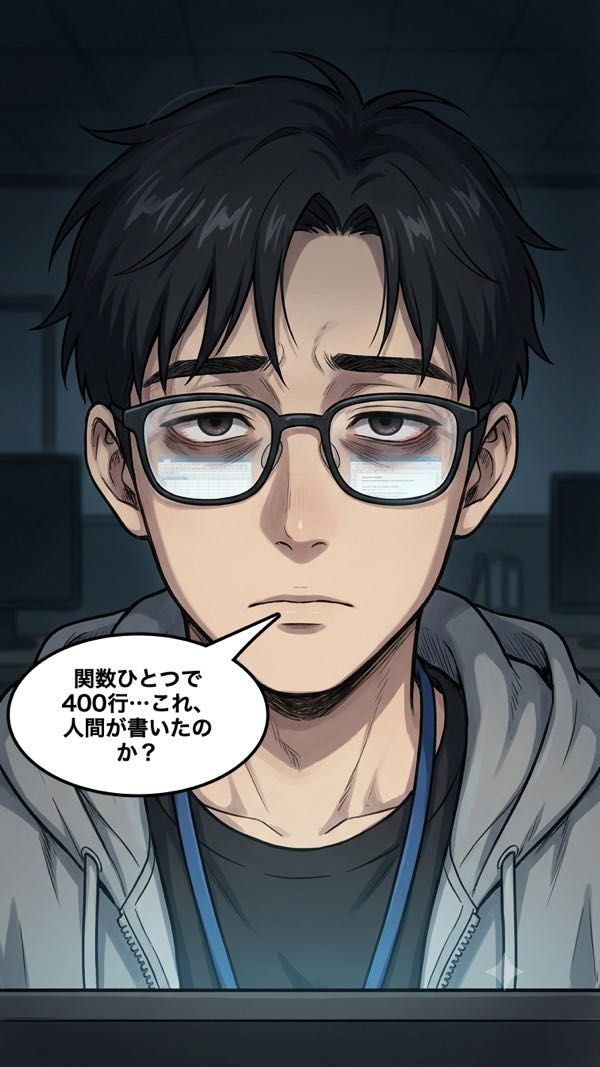
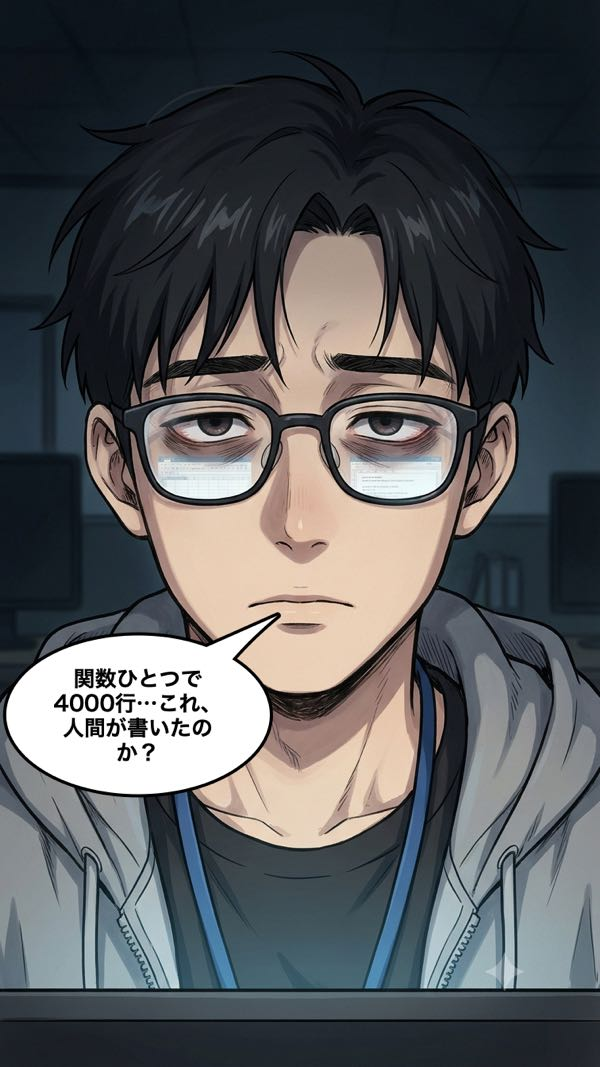
데모 만화: 4000줄, 전임자 떡밥 두 컷 추가

diff --git a/demo/ja/scroll.html b/demo/ja/scroll.html
@@ -1,4 +1,4 @@
 <!doctype html><html lang="ja"><meta charset="utf-8"><title>開発者異世界 第1話（デモ）</title><meta name="viewport" content="width=device-width,initial-scale=1"><meta name="robots" content="noindex">
 <style>body{margin:0;background:#0b0c10;color:#eee;font-family:-apple-system,system-ui,sans-serif}
 a{color:#8ab4ff}.wrap{max-width:756px;margin:0 auto}img{display:block;width:100%;height:auto}
-.top{padding:14px 16px;font-size:14px;line-height:1.5}.top b{font-size:16px}.langs{margin-bottom:8px}</style><body><div class="wrap"><div class="top"><nav class="langs"><b>日本語</b> · <a href="../en/scroll.html">English</a> · <a href="../de/scroll.html">Deutsch</a> · <a href="../ko/scroll.html">한국어</a></nav><b>開発者異世界 第1話（デモ）</b><br>Hearbook のWebマンガ翻訳を試すためのデモです。お話はHearbookが作り、絵はAIで作成しました。<br><a href="paged.html">ページめくりのデモ（宇宙ねこパトロール）</a></div><img src="isekai/cut01.jpg?v=4" width="600" height="1067" alt="開発者異世界 第1話（デモ） 1"><img src="isekai/cut02.jpg?v=4" width="600" height="1067" alt="開発者異世界 第1話（デモ） 2"><img src="isekai/cut03.jpg?v=4" width="600" height="1067" alt="開発者異世界 第1話（デモ） 3"><img src="isekai/cut03-1.jpg?v=4" width="600" height="1067" alt="開発者異世界 第1話（デモ） 4"><img src="isekai/cut04.jpg?v=4" width="600" height="1067" alt="開発者異世界 第1話（デモ） 5"><img src="isekai/cut04-1.jpg?v=4" width="600" height="1067" alt="開発者異世界 第1話（デモ） 6"><img src="isekai/cut04-2.jpg?v=4" width="600" height="1067" alt="開発者異世界 第1話（デモ） 7"><img src="isekai/cut04-3.jpg?v=4" width="600" height="1067" alt="開発者異世界 第1話（デモ） 8"><img src="isekai/cut05.jpg?v=4" width="600" height="476" alt="開発者異世界 第1話（デモ） 9"><img src="isekai/cut06.jpg?v=4" width="600" height="1067" alt="開発者異世界 第1話（デモ） 10"><img src="isekai/cut07.jpg?v=4" width="600" height="294" alt="開発者異世界 第1話（デモ） 11" style="margin-bottom:220px"><img src="isekai/cut08.jpg?v=4" width="600" height="1067" alt="開発者異世界 第1話（デモ） 12"><img src="isekai/cut09.jpg?v=4" width="600" height="1067" alt="開発者異世界 第1話（デモ） 13"><img src="isekai/cut10.jpg?v=4" width="600" height="1067" alt="開発者異世界 第1話（デモ） 14"><img src="isekai/cut11.jpg?v=4" width="600" height="1067" alt="開発者異世界 第1話（デモ） 15"><img src="isekai/cut12.jpg?v=4" width="600" height="294" alt="開発者異世界 第1話（デモ） 16" style="margin-bottom:220px"><img src="isekai/cut13.jpg?v=4" width="600" height="1067" alt="開発者異世界 第1話（デモ） 17"><img src="isekai/cut14.jpg?v=4" width="600" height="1067" alt="開発者異世界 第1話（デモ） 18"><img src="isekai/cut15.jpg?v=4" width="600" height="1067" alt="開発者異世界 第1話（デモ） 19"><img src="isekai/cut16.jpg?v=4" width="600" height="1067" alt="開発者異世界 第1話（デモ） 20"><img src="isekai/cut17.jpg?v=4" width="600" height="1067" alt="開発者異世界 第1話（デモ） 21"><img src="isekai/cut18.jpg?v=4" width="600" height="1067" alt="開発者異世界 第1話（デモ） 22"><img src="isekai/cut19.jpg?v=4" width="600" height="1067" alt="開発者異世界 第1話（デモ） 23"><img src="isekai/cut20.jpg?v=4" width="600" height="1067" alt="開発者異世界 第1話（デモ） 24"><img src="isekai/cut21.jpg?v=4" width="600" height="1067" alt="開発者異世界 第1話（デモ） 25"><img src="isekai/cut22.jpg?v=4" width="600" height="294" alt="開発者異世界 第1話（デモ） 26"><img src="isekai/cut23.jpg?v=4" width="600" height="1067" alt="開発者異世界 第1話（デモ） 27"><img src="isekai/cut24.jpg?v=4" width="600" height="1067" alt="開発者異世界 第1話（デモ） 28"><img src="isekai/cut25.jpg?v=4" width="600" height="841" alt="開発者異世界 第1話（デモ） 29"><img src="isekai/cut26.jpg?v=4" width="600" height="1067" alt="開発者異世界 第1話（デモ） 30"><img src="isekai/cut27.jpg?v=4" width="600" height="1067" alt="開発者異世界 第1話（デモ） 31"><img src="isekai/cut28.jpg?v=4" width="600" height="1067" alt="開発者異世界 第1話（デモ） 32"><img src="isekai/cut29.jpg?v=4" width="600" height="1067" alt="開発者異世界 第1話（デモ） 33"><img src="isekai/cut30.jpg?v=4" width="600" height="1067" alt="開発者異世界 第1話（デモ） 34"><img src="isekai/cut31.jpg?v=4" width="600" height="1067" alt="開発者異世界 第1話（デモ） 35"><img src="isekai/cut32.jpg?v=4" width="600" height="1067" alt="開発者異世界 第1話（デモ） 36"><img src="isekai/cut33.jpg?v=4" width="600" height="1067" alt="開発者異世界 第1話（デモ） 37"><img src="isekai/cut34.jpg?v=4" width="600" height="1067" alt="開発者異世界 第1話（デモ） 38"><img src="isekai/cut35.jpg?v=4" width="600" height="1067" alt="開発者異世界 第1話（デモ） 39"><img src="isekai/cut36.jpg?v=4" width="600" height="476" alt="開発者異世界 第1話（デモ） 40"><img src="isekai/cut37.jpg?v=4" width="600" height="1067" alt="開発者異世界 第1話（デモ） 41"><img src="isekai/cut38.jpg?v=4" width="600" height="294" alt="開発者異世界 第1話（デモ） 42" style="margin-bottom:220px"><img src="isekai/cut39.jpg?v=4" width="600" height="1067" alt="開発者異世界 第1話（デモ） 43"><img src="isekai/cut40.jpg?v=4" width="600" height="294" alt="開発者異世界 第1話（デモ） 44"><img src="isekai/cut41.jpg?v=4" width="600" height="1067" alt="開発者異世界 第1話（デモ） 45"><img src="isekai/cut42.jpg?v=4" width="600" height="294" alt="開発者異世界 第1話（デモ） 46"><img src="isekai/cut43.jpg?v=4" width="600" height="1067" alt="開発者異世界 第1話（デモ） 47"><img src="isekai/cut44.jpg?v=4" width="600" height="1067" alt="開発者異世界 第1話（デモ） 48"><img src="isekai/cut45.jpg?v=4" width="600" height="1067" alt="開発者異世界 第1話（デモ） 49"><img src="isekai/cut46.jpg?v=4" width="600" height="294" alt="開発者異世界 第1話（デモ） 50"><img src="isekai/cut47.jpg?v=4" width="600" height="1067" alt="開発者異世界 第1話（デモ） 51" style="margin-bottom:220px"><img src="isekai/cut48.jpg?v=4" width="600" height="1067" alt="開発者異世界 第1話（デモ） 52"><img src="isekai/cut49.jpg?v=4" width="600" height="1067" alt="開発者異世界 第1話（デモ） 53"><img src="isekai/cut50.jpg?v=4" width="600" height="294" alt="開発者異世界 第1話（デモ） 54"><img src="isekai/cut51.jpg?v=4" width="600" height="1067" alt="開発者異世界 第1話（デモ） 55"><img src="isekai/cut52.jpg?v=4" width="600" height="1067" alt="開発者異世界 第1話（デモ） 56"><img src="isekai/cut53.jpg?v=4" width="600" height="1067" alt="開発者異世界 第1話（デモ） 57"><img src="isekai/cut54.jpg?v=4" width="600" height="1067" alt="開発者異世界 第1話（デモ） 58"><img src="isekai/cut55.jpg?v=4" width="600" height="294" alt="開発者異世界 第1話（デモ） 59"><img src="isekai/cut56.jpg?v=4" width="600" height="1067" alt="開発者異世界 第1話（デモ） 60" style="margin-bottom:220px"></div></body></html>
+.top{padding:14px 16px;font-size:14px;line-height:1.5}.top b{font-size:16px}.langs{margin-bottom:8px}</style><body><div class="wrap"><div class="top"><nav class="langs"><b>日本語</b> · <a href="../en/scroll.html">English</a> · <a href="../de/scroll.html">Deutsch</a> · <a href="../ko/scroll.html">한국어</a></nav><b>開発者異世界 第1話（デモ）</b><br>Hearbook のWebマンガ翻訳を試すためのデモです。お話はHearbookが作り、絵はAIで作成しました。<br><a href="paged.html">ページめくりのデモ（宇宙ねこパトロール）</a></div><img src="isekai/cut01.jpg?v=5" width="600" height="1067" alt="開発者異世界 第1話（デモ） 1"><img src="isekai/cut02.jpg?v=5" width="600" height="1067" alt="開発者異世界 第1話（デモ） 2"><img src="isekai/cut03.jpg?v=5" width="600" height="1067" alt="開発者異世界 第1話（デモ） 3"><img src="isekai/cut03-1.jpg?v=5" width="600" height="1067" alt="開発者異世界 第1話（デモ） 4"><img src="isekai/cut03-2.jpg?v=5" width="600" height="476" alt="開発者異世界 第1話（デモ） 5"><img src="isekai/cut04.jpg?v=5" width="600" height="1067" alt="開発者異世界 第1話（デモ） 6"><img src="isekai/cut04-1.jpg?v=5" width="600" height="1067" alt="開発者異世界 第1話（デモ） 7"><img src="isekai/cut04-2.jpg?v=5" width="600" height="1067" alt="開発者異世界 第1話（デモ） 8"><img src="isekai/cut04-3.jpg?v=5" width="600" height="1067" alt="開発者異世界 第1話（デモ） 9"><img src="isekai/cut05.jpg?v=5" width="600" height="476" alt="開発者異世界 第1話（デモ） 10"><img src="isekai/cut06.jpg?v=5" width="600" height="1067" alt="開発者異世界 第1話（デモ） 11"><img src="isekai/cut07.jpg?v=5" width="600" height="294" alt="開発者異世界 第1話（デモ） 12" style="margin-bottom:220px"><img src="isekai/cut08.jpg?v=5" width="600" height="1067" alt="開発者異世界 第1話（デモ） 13"><img src="isekai/cut09.jpg?v=5" width="600" height="1067" alt="開発者異世界 第1話（デモ） 14"><img src="isekai/cut10.jpg?v=5" width="600" height="1067" alt="開発者異世界 第1話（デモ） 15"><img src="isekai/cut11.jpg?v=5" width="600" height="1067" alt="開発者異世界 第1話（デモ） 16"><img src="isekai/cut12.jpg?v=5" width="600" height="294" alt="開発者異世界 第1話（デモ） 17" style="margin-bottom:220px"><img src="isekai/cut13.jpg?v=5" width="600" height="1067" alt="開発者異世界 第1話（デモ） 18"><img src="isekai/cut14.jpg?v=5" width="600" height="1067" alt="開発者異世界 第1話（デモ） 19"><img src="isekai/cut15.jpg?v=5" width="600" height="1067" alt="開発者異世界 第1話（デモ） 20"><img src="isekai/cut16.jpg?v=5" width="600" height="1067" alt="開発者異世界 第1話（デモ） 21"><img src="isekai/cut17.jpg?v=5" width="600" height="1067" alt="開発者異世界 第1話（デモ） 22"><img src="isekai/cut18.jpg?v=5" width="600" height="1067" alt="開発者異世界 第1話（デモ） 23"><img src="isekai/cut19.jpg?v=5" width="600" height="1067" alt="開発者異世界 第1話（デモ） 24"><img src="isekai/cut20.jpg?v=5" width="600" height="1067" alt="開発者異世界 第1話（デモ） 25"><img src="isekai/cut21.jpg?v=5" width="600" height="1067" alt="開発者異世界 第1話（デモ） 26"><img src="isekai/cut22.jpg?v=5" width="600" height="294" alt="開発者異世界 第1話（デモ） 27"><img src="isekai/cut23.jpg?v=5" width="600" height="1067" alt="開発者異世界 第1話（デモ） 28"><img src="isekai/cut24.jpg?v=5" width="600" height="1067" alt="開発者異世界 第1話（デモ） 29"><img src="isekai/cut25.jpg?v=5" width="600" height="841" alt="開発者異世界 第1話（デモ） 30"><img src="isekai/cut26.jpg?v=5" width="600" height="1067" alt="開発者異世界 第1話（デモ） 31"><img src="isekai/cut27.jpg?v=5" width="600" height="1067" alt="開発者異世界 第1話（デモ） 32"><img src="isekai/cut28.jpg?v=5" width="600" height="1067" alt="開発者異世界 第1話（デモ） 33"><img src="isekai/cut29.jpg?v=5" width="600" height="1067" alt="開発者異世界 第1話（デモ） 34"><img src="isekai/cut30.jpg?v=5" width="600" height="1067" alt="開発者異世界 第1話（デモ） 35"><img src="isekai/cut31.jpg?v=5" width="600" height="1067" alt="開発者異世界 第1話（デモ） 36"><img src="isekai/cut32.jpg?v=5" width="600" height="1067" alt="開発者異世界 第1話（デモ） 37"><img src="isekai/cut33.jpg?v=5" width="600" height="1067" alt="開発者異世界 第1話（デモ） 38"><img src="isekai/cut34.jpg?v=5" width="600" height="1067" alt="開発者異世界 第1話（デモ） 39"><img src="isekai/cut35.jpg?v=5" width="600" height="1067" alt="開発者異世界 第1話（デモ） 40"><img src="isekai/cut36.jpg?v=5" width="600" height="476" alt="開発者異世界 第1話（デモ） 41"><img src="isekai/cut37.jpg?v=5" width="600" height="1067" alt="開発者異世界 第1話（デモ） 42"><img src="isekai/cut38.jpg?v=5" width="600" height="294" alt="開発者異世界 第1話（デモ） 43" style="margin-bottom:220px"><img src="isekai/cut39.jpg?v=5" width="600" height="1067" alt="開発者異世界 第1話（デモ） 44"><img src="isekai/cut40.jpg?v=5" width="600" height="294" alt="開発者異世界 第1話（デモ） 45"><img src="isekai/cut41.jpg?v=5" width="600" height="1067" alt="開発者異世界 第1話（デモ） 46"><img src="isekai/cut42.jpg?v=5" width="600" height="294" alt="開発者異世界 第1話（デモ） 47"><img src="isekai/cut43.jpg?v=5" width="600" height="1067" alt="開発者異世界 第1話（デモ） 48"><img src="isekai/cut44.jpg?v=5" width="600" height="1067" alt="開発者異世界 第1話（デモ） 49"><img src="isekai/cut45.jpg?v=5" width="600" height="1067" alt="開発者異世界 第1話（デモ） 50"><img src="isekai/cut46.jpg?v=5" width="600" height="294" alt="開発者異世界 第1話（デモ） 51"><img src="isekai/cut47.jpg?v=5" width="600" height="1067" alt="開発者異世界 第1話（デモ） 52" style="margin-bottom:220px"><img src="isekai/cut48.jpg?v=5" width="600" height="1067" alt="開発者異世界 第1話（デモ） 53"><img src="isekai/cut49.jpg?v=5" width="600" height="1067" alt="開発者異世界 第1話（デモ） 54"><img src="isekai/cut50.jpg?v=5" width="600" height="294" alt="開発者異世界 第1話（デモ） 55"><img src="isekai/cut51.jpg?v=5" width="600" height="1067" alt="開発者異世界 第1話（デモ） 56"><img src="isekai/cut52.jpg?v=5" width="600" height="1067" alt="開発者異世界 第1話（デモ） 57"><img src="isekai/cut53.jpg?v=5" width="600" height="1067" alt="開発者異世界 第1話（デモ） 58"><img src="isekai/cut54.jpg?v=5" width="600" height="1067" alt="開発者異世界 第1話（デモ） 59"><img src="isekai/cut55.jpg?v=5" width="600" height="294" alt="開発者異世界 第1話（デモ） 60"><img src="isekai/cut55-1.jpg?v=5" width="600" height="294" alt="開発者異世界 第1話（デモ） 61"><img src="isekai/cut56.jpg?v=5" width="600" height="1067" alt="開発者異世界 第1話（デモ） 62" style="margin-bottom:220px"></div></body></html>

diff --git a/demo/en/scroll.html b/demo/en/scroll.html
@@ -1,4 +1,4 @@
 <!doctype html><html lang="en"><meta charset="utf-8"><title>Developer Isekai, Episode 1 (Demo)</title><meta name="viewport" content="width=device-width,initial-scale=1"><meta name="robots" content="noindex">
 <style>body{margin:0;background:#0b0c10;color:#eee;font-family:-apple-system,system-ui,sans-serif}
 a{color:#8ab4ff}.wrap{max-width:756px;margin:0 auto}img{display:block;width:100%;height:auto}
-.top{padding:14px 16px;font-size:14px;line-height:1.5}.top b{font-size:16px}.langs{margin-bottom:8px}</style><body><div class="wrap"><div class="top"><nav class="langs"><a href="../ja/scroll.html">日本語</a> · <b>English</b> · <a href="../de/scroll.html">Deutsch</a> · <a href="../ko/scroll.html">한국어</a></nav><b>Developer Isekai, Episode 1 (Demo)</b><br>A demo for trying Hearbook’s web comic translation. Story by Hearbook; art made with AI.<br><a href="paged.html">Page-by-page demo (Space Cat Patrol)</a></div><img src="isekai/cut01.jpg?v=4" width="600" height="1067" alt="Developer Isekai, Episode 1 (Demo) 1"><img src="isekai/cut02.jpg?v=4" width="600" height="1067" alt="Developer Isekai, Episode 1 (Demo) 2"><img src="isekai/cut03.jpg?v=4" width="600" height="1067" alt="Developer Isekai, Episode 1 (Demo) 3"><img src="isekai/cut03-1.jpg?v=4" width="600" height="1067" alt="Developer Isekai, Episode 1 (Demo) 4"><img src="isekai/cut04.jpg?v=4" width="600" height="1067" alt="Developer Isekai, Episode 1 (Demo) 5"><img src="isekai/cut04-1.jpg?v=4" width="600" height="1067" alt="Developer Isekai, Episode 1 (Demo) 6"><img src="isekai/cut04-2.jpg?v=4" width="600" height="1067" alt="Developer Isekai, Episode 1 (Demo) 7"><img src="isekai/cut04-3.jpg?v=4" width="600" height="1067" alt="Developer Isekai, Episode 1 (Demo) 8"><img src="isekai/cut05.jpg?v=4" width="600" height="476" alt="Developer Isekai, Episode 1 (Demo) 9"><img src="isekai/cut06.jpg?v=4" width="600" height="1067" alt="Developer Isekai, Episode 1 (Demo) 10"><img src="isekai/cut07.jpg?v=4" width="600" height="294" alt="Developer Isekai, Episode 1 (Demo) 11" style="margin-bottom:220px"><img src="isekai/cut08.jpg?v=4" width="600" height="1067" alt="Developer Isekai, Episode 1 (Demo) 12"><img src="isekai/cut09.jpg?v=4" width="600" height="1067" alt="Developer Isekai, Episode 1 (Demo) 13"><img src="isekai/cut10.jpg?v=4" width="600" height="1067" alt="Developer Isekai, Episode 1 (Demo) 14"><img src="isekai/cut11.jpg?v=4" width="600" height="1067" alt="Developer Isekai, Episode 1 (Demo) 15"><img src="isekai/cut12.jpg?v=4" width="600" height="294" alt="Developer Isekai, Episode 1 (Demo) 16" style="margin-bottom:220px"><img src="isekai/cut13.jpg?v=4" width="600" height="1067" alt="Developer Isekai, Episode 1 (Demo) 17"><img src="isekai/cut14.jpg?v=4" width="600" height="1067" alt="Developer Isekai, Episode 1 (Demo) 18"><img src="isekai/cut15.jpg?v=4" width="600" height="1067" alt="Developer Isekai, Episode 1 (Demo) 19"><img src="isekai/cut16.jpg?v=4" width="600" height="1067" alt="Developer Isekai, Episode 1 (Demo) 20"><img src="isekai/cut17.jpg?v=4" width="600" height="1067" alt="Developer Isekai, Episode 1 (Demo) 21"><img src="isekai/cut18.jpg?v=4" width="600" height="1067" alt="Developer Isekai, Episode 1 (Demo) 22"><img src="isekai/cut19.jpg?v=4" width="600" height="1067" alt="Developer Isekai, Episode 1 (Demo) 23"><img src="isekai/cut20.jpg?v=4" width="600" height="1067" alt="Developer Isekai, Episode 1 (Demo) 24"><img src="isekai/cut21.jpg?v=4" width="600" height="1067" alt="Developer Isekai, Episode 1 (Demo) 25"><img src="isekai/cut22.jpg?v=4" width="600" height="294" alt="Developer Isekai, Episode 1 (Demo) 26"><img src="isekai/cut23.jpg?v=4" width="600" height="1067" alt="Developer Isekai, Episode 1 (Demo) 27"><img src="isekai/cut24.jpg?v=4" width="600" height="1067" alt="Developer Isekai, Episode 1 (Demo) 28"><img src="isekai/cut25.jpg?v=4" width="600" height="841" alt="Developer Isekai, Episode 1 (Demo) 29"><img src="isekai/cut26.jpg?v=4" width="600" height="1067" alt="Developer Isekai, Episode 1 (Demo) 30"><img src="isekai/cut27.jpg?v=4" width="600" height="1067" alt="Developer Isekai, Episode 1 (Demo) 31"><img src="isekai/cut28.jpg?v=4" width="600" height="1067" alt="Developer Isekai, Episode 1 (Demo) 32"><img src="isekai/cut29.jpg?v=4" width="600" height="1067" alt="Developer Isekai, Episode 1 (Demo) 33"><img src="isekai/cut30.jpg?v=4" width="600" height="1067" alt="Developer Isekai, Episode 1 (Demo) 34"><img src="isekai/cut31.jpg?v=4" width="600" height="1067" alt="Developer Isekai, Episode 1 (Demo) 35"><img src="isekai/cut32.jpg?v=4" width="600" height="1067" alt="Developer Isekai, Episode 1 (Demo) 36"><img src="isekai/cut33.jpg?v=4" width="600" height="1067" alt="Developer Isekai, Episode 1 (Demo) 37"><img src="isekai/cut34.jpg?v=4" width="600" height="1067" alt="Developer Isekai, Episode 1 (Demo) 38"><img src="isekai/cut35.jpg?v=4" width="600" height="1067" alt="Developer Isekai, Episode 1 (Demo) 39"><img src="isekai/cut36.jpg?v=4" width="600" height="476" alt="Developer Isekai, Episode 1 (Demo) 40"><img src="isekai/cut37.jpg?v=4" width="600" height="1067" alt="Developer Isekai, Episode 1 (Demo) 41"><img src="isekai/cut38.jpg?v=4" width="600" height="294" alt="Developer Isekai, Episode 1 (Demo) 42" style="margin-bottom:220px"><img src="isekai/cut39.jpg?v=4" width="600" height="1067" alt="Developer Isekai, Episode 1 (Demo) 43"><img src="isekai/cut40.jpg?v=4" width="600" height="294" alt="Developer Isekai, Episode 1 (Demo) 44"><img src="isekai/cut41.jpg?v=4" width="600" height="1067" alt="Developer Isekai, Episode 1 (Demo) 45"><img src="isekai/cut42.jpg?v=4" width="600" height="294" alt="Developer Isekai, Episode 1 (Demo) 46"><img src="isekai/cut43.jpg?v=4" width="600" height="1067" alt="Developer Isekai, Episode 1 (Demo) 47"><img src="isekai/cut44.jpg?v=4" width="600" height="1067" alt="Developer Isekai, Episode 1 (Demo) 48"><img src="isekai/cut45.jpg?v=4" width="600" height="1067" alt="Developer Isekai, Episode 1 (Demo) 49"><img src="isekai/cut46.jpg?v=4" width="600" height="294" alt="Developer Isekai, Episode 1 (Demo) 50"><img src="isekai/cut47.jpg?v=4" width="600" height="1067" alt="Developer Isekai, Episode 1 (Demo) 51" style="margin-bottom:220px"><img src="isekai/cut48.jpg?v=4" width="600" height="1067" alt="Developer Isekai, Episode 1 (Demo) 52"><img src="isekai/cut49.jpg?v=4" width="600" height="1067" alt="Developer Isekai, Episode 1 (Demo) 53"><img src="isekai/cut50.jpg?v=4" width="600" height="294" alt="Developer Isekai, Episode 1 (Demo) 54"><img src="isekai/cut51.jpg?v=4" width="600" height="1067" alt="Developer Isekai, Episode 1 (Demo) 55"><img src="isekai/cut52.jpg?v=4" width="600" height="1067" alt="Developer Isekai, Episode 1 (Demo) 56"><img src="isekai/cut53.jpg?v=4" width="600" height="1067" alt="Developer Isekai, Episode 1 (Demo) 57"><img src="isekai/cut54.jpg?v=4" width="600" height="1067" alt="Developer Isekai, Episode 1 (Demo) 58"><img src="isekai/cut55.jpg?v=4" width="600" height="294" alt="Developer Isekai, Episode 1 (Demo) 59"><img src="isekai/cut56.jpg?v=4" width="600" height="1067" alt="Developer Isekai, Episode 1 (Demo) 60" style="margin-bottom:220px"></div></body></html>
+.top{padding:14px 16px;font-size:14px;line-height:1.5}.top b{font-size:16px}.langs{margin-bottom:8px}</style><body><div class="wrap"><div class="top"><nav class="langs"><a href="../ja/scroll.html">日本語</a> · <b>English</b> · <a href="../de/scroll.html">Deutsch</a> · <a href="../ko/scroll.html">한국어</a></nav><b>Developer Isekai, Episode 1 (Demo)</b><br>A demo for trying Hearbook’s web comic translation. Story by Hearbook; art made with AI.<br><a href="paged.html">Page-by-page demo (Space Cat Patrol)</a></div><img src="isekai/cut01.jpg?v=5" width="600" height="1067" alt="Developer Isekai, Episode 1 (Demo) 1"><img src="isekai/cut02.jpg?v=5" width="600" height="1067" alt="Developer Isekai, Episode 1 (Demo) 2"><img src="isekai/cut03.jpg?v=5" width="600" height="1067" alt="Developer Isekai, Episode 1 (Demo) 3"><img src="isekai/cut03-1.jpg?v=5" width="600" height="1067" alt="Developer Isekai, Episode 1 (Demo) 4"><img src="isekai/cut03-2.jpg?v=5" width="600" height="476" alt="Developer Isekai, Episode 1 (Demo) 5"><img src="isekai/cut04.jpg?v=5" width="600" height="1067" alt="Developer Isekai, Episode 1 (Demo) 6"><img src="isekai/cut04-1.jpg?v=5" width="600" height="1067" alt="Developer Isekai, Episode 1 (Demo) 7"><img src="isekai/cut04-2.jpg?v=5" width="600" height="1067" alt="Developer Isekai, Episode 1 (Demo) 8"><img src="isekai/cut04-3.jpg?v=5" width="600" height="1067" alt="Developer Isekai, Episode 1 (Demo) 9"><img src="isekai/cut05.jpg?v=5" width="600" height="476" alt="Developer Isekai, Episode 1 (Demo) 10"><img src="isekai/cut06.jpg?v=5" width="600" height="1067" alt="Developer Isekai, Episode 1 (Demo) 11"><img src="isekai/cut07.jpg?v=5" width="600" height="294" alt="Developer Isekai, Episode 1 (Demo) 12" style="margin-bottom:220px"><img src="isekai/cut08.jpg?v=5" width="600" height="1067" alt="Developer Isekai, Episode 1 (Demo) 13"><img src="isekai/cut09.jpg?v=5" width="600" height="1067" alt="Developer Isekai, Episode 1 (Demo) 14"><img src="isekai/cut10.jpg?v=5" width="600" height="1067" alt="Developer Isekai, Episode 1 (Demo) 15"><img src="isekai/cut11.jpg?v=5" width="600" height="1067" alt="Developer Isekai, Episode 1 (Demo) 16"><img src="isekai/cut12.jpg?v=5" width="600" height="294" alt="Developer Isekai, Episode 1 (Demo) 17" style="margin-bottom:220px"><img src="isekai/cut13.jpg?v=5" width="600" height="1067" alt="Developer Isekai, Episode 1 (Demo) 18"><img src="isekai/cut14.jpg?v=5" width="600" height="1067" alt="Developer Isekai, Episode 1 (Demo) 19"><img src="isekai/cut15.jpg?v=5" width="600" height="1067" alt="Developer Isekai, Episode 1 (Demo) 20"><img src="isekai/cut16.jpg?v=5" width="600" height="1067" alt="Developer Isekai, Episode 1 (Demo) 21"><img src="isekai/cut17.jpg?v=5" width="600" height="1067" alt="Developer Isekai, Episode 1 (Demo) 22"><img src="isekai/cut18.jpg?v=5" width="600" height="1067" alt="Developer Isekai, Episode 1 (Demo) 23"><img src="isekai/cut19.jpg?v=5" width="600" height="1067" alt="Developer Isekai, Episode 1 (Demo) 24"><img src="isekai/cut20.jpg?v=5" width="600" height="1067" alt="Developer Isekai, Episode 1 (Demo) 25"><img src="isekai/cut21.jpg?v=5" width="600" height="1067" alt="Developer Isekai, Episode 1 (Demo) 26"><img src="isekai/cut22.jpg?v=5" width="600" height="294" alt="Developer Isekai, Episode 1 (Demo) 27"><img src="isekai/cut23.jpg?v=5" width="600" height="1067" alt="Developer Isekai, Episode 1 (Demo) 28"><img src="isekai/cut24.jpg?v=5" width="600" height="1067" alt="Developer Isekai, Episode 1 (Demo) 29"><img src="isekai/cut25.jpg?v=5" width="600" height="841" alt="Developer Isekai, Episode 1 (Demo) 30"><img src="isekai/cut26.jpg?v=5" width="600" height="1067" alt="Developer Isekai, Episode 1 (Demo) 31"><img src="isekai/cut27.jpg?v=5" width="600" height="1067" alt="Developer Isekai, Episode 1 (Demo) 32"><img src="isekai/cut28.jpg?v=5" width="600" height="1067" alt="Developer Isekai, Episode 1 (Demo) 33"><img src="isekai/cut29.jpg?v=5" width="600" height="1067" alt="Developer Isekai, Episode 1 (Demo) 34"><img src="isekai/cut30.jpg?v=5" width="600" height="1067" alt="Developer Isekai, Episode 1 (Demo) 35"><img src="isekai/cut31.jpg?v=5" width="600" height="1067" alt="Developer Isekai, Episode 1 (Demo) 36"><img src="isekai/cut32.jpg?v=5" width="600" height="1067" alt="Developer Isekai, Episode 1 (Demo) 37"><img src="isekai/cut33.jpg?v=5" width="600" height="1067" alt="Developer Isekai, Episode 1 (Demo) 38"><img src="isekai/cut34.jpg?v=5" width="600" height="1067" alt="Developer Isekai, Episode 1 (Demo) 39"><img src="isekai/cut35.jpg?v=5" width="600" height="1067" alt="Developer Isekai, Episode 1 (Demo) 40"><img src="isekai/cut36.jpg?v=5" width="600" height="476" alt="Developer Isekai, Episode 1 (Demo) 41"><img src="isekai/cut37.jpg?v=5" width="600" height="1067" alt="Developer Isekai, Episode 1 (Demo) 42"><img src="isekai/cut38.jpg?v=5" width="600" height="294" alt="Developer Isekai, Episode 1 (Demo) 43" style="margin-bottom:220px"><img src="isekai/cut39.jpg?v=5" width="600" height="1067" alt="Developer Isekai, Episode 1 (Demo) 44"><img src="isekai/cut40.jpg?v=5" width="600" height="294" alt="Developer Isekai, Episode 1 (Demo) 45"><img src="isekai/cut41.jpg?v=5" width="600" height="1067" alt="Developer Isekai, Episode 1 (Demo) 46"><img src="isekai/cut42.jpg?v=5" width="600" height="294" alt="Developer Isekai, Episode 1 (Demo) 47"><img src="isekai/cut43.jpg?v=5" width="600" height="1067" alt="Developer Isekai, Episode 1 (Demo) 48"><img src="isekai/cut44.jpg?v=5" width="600" height="1067" alt="Developer Isekai, Episode 1 (Demo) 49"><img src="isekai/cut45.jpg?v=5" width="600" height="1067" alt="Developer Isekai, Episode 1 (Demo) 50"><img src="isekai/cut46.jpg?v=5" width="600" height="294" alt="Developer Isekai, Episode 1 (Demo) 51"><img src="isekai/cut47.jpg?v=5" width="600" height="1067" alt="Developer Isekai, Episode 1 (Demo) 52" style="margin-bottom:220px"><img src="isekai/cut48.jpg?v=5" width="600" height="1067" alt="Developer Isekai, Episode 1 (Demo) 53"><img src="isekai/cut49.jpg?v=5" width="600" height="1067" alt="Developer Isekai, Episode 1 (Demo) 54"><img src="isekai/cut50.jpg?v=5" width="600" height="294" alt="Developer Isekai, Episode 1 (Demo) 55"><img src="isekai/cut51.jpg?v=5" width="600" height="1067" alt="Developer Isekai, Episode 1 (Demo) 56"><img src="isekai/cut52.jpg?v=5" width="600" height="1067" alt="Developer Isekai, Episode 1 (Demo) 57"><img src="isekai/cut53.jpg?v=5" width="600" height="1067" alt="Developer Isekai, Episode 1 (Demo) 58"><img src="isekai/cut54.jpg?v=5" width="600" height="1067" alt="Developer Isekai, Episode 1 (Demo) 59"><img src="isekai/cut55.jpg?v=5" width="600" height="294" alt="Developer Isekai, Episode 1 (Demo) 60"><img src="isekai/cut55-1.jpg?v=5" width="600" height="294" alt="Developer Isekai, Episode 1 (Demo) 61"><img src="isekai/cut56.jpg?v=5" width="600" height="1067" alt="Developer Isekai, Episode 1 (Demo) 62" style="margin-bottom:220px"></div></body></html>

diff --git a/demo/ko/scroll.html b/demo/ko/scroll.html
@@ -1,4 +1,4 @@
 <!doctype html><html lang="ko"><meta charset="utf-8"><title>개발자 이세계 1화 (데모)</title><meta name="viewport" content="width=device-width,initial-scale=1"><meta name="robots" content="noindex">
 <style>body{margin:0;background:#0b0c10;color:#eee;font-family:-apple-system,system-ui,sans-serif}
 a{color:#8ab4ff}.wrap{max-width:756px;margin:0 auto}img{display:block;width:100%;height:auto}
-.top{padding:14px 16px;font-size:14px;line-height:1.5}.top b{font-size:16px}.langs{margin-bottom:8px}</style><body><div class="wrap"><div class="top"><nav class="langs"><a href="../ja/scroll.html">日本語</a> · <a href="../en/scroll.html">English</a> · <a href="../de/scroll.html">Deutsch</a> · <b>한국어</b></nav><b>개발자 이세계 1화 (데모)</b><br>Hearbook 웹 만화 번역을 체험해 보는 데모예요. 이야기는 Hearbook이 만들었고, 그림은 AI로 만들었어요.<br><a href="paged.html">쪽 넘기기 데모 (우주 고양이 순찰대)</a></div><img src="isekai/cut01.jpg?v=4" width="600" height="1067" alt="개발자 이세계 1화 (데모) 1"><img src="isekai/cut02.jpg?v=4" width="600" height="1067" alt="개발자 이세계 1화 (데모) 2"><img src="isekai/cut03.jpg?v=4" width="600" height="1067" alt="개발자 이세계 1화 (데모) 3"><img src="isekai/cut03-1.jpg?v=4" width="600" height="1067" alt="개발자 이세계 1화 (데모) 4"><img src="isekai/cut04.jpg?v=4" width="600" height="1067" alt="개발자 이세계 1화 (데모) 5"><img src="isekai/cut04-1.jpg?v=4" width="600" height="1067" alt="개발자 이세계 1화 (데모) 6"><img src="isekai/cut04-2.jpg?v=4" width="600" height="1067" alt="개발자 이세계 1화 (데모) 7"><img src="isekai/cut04-3.jpg?v=4" width="600" height="1067" alt="개발자 이세계 1화 (데모) 8"><img src="isekai/cut05.jpg?v=4" width="600" height="476" alt="개발자 이세계 1화 (데모) 9"><img src="isekai/cut06.jpg?v=4" width="600" height="1067" alt="개발자 이세계 1화 (데모) 10"><img src="isekai/cut07.jpg?v=4" width="600" height="294" alt="개발자 이세계 1화 (데모) 11" style="margin-bottom:220px"><img src="isekai/cut08.jpg?v=4" width="600" height="1067" alt="개발자 이세계 1화 (데모) 12"><img src="isekai/cut09.jpg?v=4" width="600" height="1067" alt="개발자 이세계 1화 (데모) 13"><img src="isekai/cut10.jpg?v=4" width="600" height="1067" alt="개발자 이세계 1화 (데모) 14"><img src="isekai/cut11.jpg?v=4" width="600" height="1067" alt="개발자 이세계 1화 (데모) 15"><img src="isekai/cut12.jpg?v=4" width="600" height="294" alt="개발자 이세계 1화 (데모) 16" style="margin-bottom:220px"><img src="isekai/cut13.jpg?v=4" width="600" height="1067" alt="개발자 이세계 1화 (데모) 17"><img src="isekai/cut14.jpg?v=4" width="600" height="1067" alt="개발자 이세계 1화 (데모) 18"><img src="isekai/cut15.jpg?v=4" width="600" height="1067" alt="개발자 이세계 1화 (데모) 19"><img src="isekai/cut16.jpg?v=4" width="600" height="1067" alt="개발자 이세계 1화 (데모) 20"><img src="isekai/cut17.jpg?v=4" width="600" height="1067" alt="개발자 이세계 1화 (데모) 21"><img src="isekai/cut18.jpg?v=4" width="600" height="1067" alt="개발자 이세계 1화 (데모) 22"><img src="isekai/cut19.jpg?v=4" width="600" height="1067" alt="개발자 이세계 1화 (데모) 23"><img src="isekai/cut20.jpg?v=4" width="600" height="1067" alt="개발자 이세계 1화 (데모) 24"><img src="isekai/cut21.jpg?v=4" width="600" height="1067" alt="개발자 이세계 1화 (데모) 25"><img src="isekai/cut22.jpg?v=4" width="600" height="294" alt="개발자 이세계 1화 (데모) 26"><img src="isekai/cut23.jpg?v=4" width="600" height="1067" alt="개발자 이세계 1화 (데모) 27"><img src="isekai/cut24.jpg?v=4" width="600" height="1067" alt="개발자 이세계 1화 (데모) 28"><img src="isekai/cut25.jpg?v=4" width="600" height="841" alt="개발자 이세계 1화 (데모) 29"><img src="isekai/cut26.jpg?v=4" width="600" height="1067" alt="개발자 이세계 1화 (데모) 30"><img src="isekai/cut27.jpg?v=4" width="600" height="1067" alt="개발자 이세계 1화 (데모) 31"><img src="isekai/cut28.jpg?v=4" width="600" height="1067" alt="개발자 이세계 1화 (데모) 32"><img src="isekai/cut29.jpg?v=4" width="600" height="1067" alt="개발자 이세계 1화 (데모) 33"><img src="isekai/cut30.jpg?v=4" width="600" height="1067" alt="개발자 이세계 1화 (데모) 34"><img src="isekai/cut31.jpg?v=4" width="600" height="1067" alt="개발자 이세계 1화 (데모) 35"><img src="isekai/cut32.jpg?v=4" width="600" height="1067" alt="개발자 이세계 1화 (데모) 36"><img src="isekai/cut33.jpg?v=4" width="600" height="1067" alt="개발자 이세계 1화 (데모) 37"><img src="isekai/cut34.jpg?v=4" width="600" height="1067" alt="개발자 이세계 1화 (데모) 38"><img src="isekai/cut35.jpg?v=4" width="600" height="1067" alt="개발자 이세계 1화 (데모) 39"><img src="isekai/cut36.jpg?v=4" width="600" height="476" alt="개발자 이세계 1화 (데모) 40"><img src="isekai/cut37.jpg?v=4" width="600" height="1067" alt="개발자 이세계 1화 (데모) 41"><img src="isekai/cut38.jpg?v=4" width="600" height="294" alt="개발자 이세계 1화 (데모) 42" style="margin-bottom:220px"><img src="isekai/cut39.jpg?v=4" width="600" height="1067" alt="개발자 이세계 1화 (데모) 43"><img src="isekai/cut40.jpg?v=4" width="600" height="294" alt="개발자 이세계 1화 (데모) 44"><img src="isekai/cut41.jpg?v=4" width="600" height="1067" alt="개발자 이세계 1화 (데모) 45"><img src="isekai/cut42.jpg?v=4" width="600" height="294" alt="개발자 이세계 1화 (데모) 46"><img src="isekai/cut43.jpg?v=4" width="600" height="1067" alt="개발자 이세계 1화 (데모) 47"><img src="isekai/cut44.jpg?v=4" width="600" height="1067" alt="개발자 이세계 1화 (데모) 48"><img src="isekai/cut45.jpg?v=4" width="600" height="1067" alt="개발자 이세계 1화 (데모) 49"><img src="isekai/cut46.jpg?v=4" width="600" height="294" alt="개발자 이세계 1화 (데모) 50"><img src="isekai/cut47.jpg?v=4" width="600" height="1067" alt="개발자 이세계 1화 (데모) 51" style="margin-bottom:220px"><img src="isekai/cut48.jpg?v=4" width="600" height="1067" alt="개발자 이세계 1화 (데모) 52"><img src="isekai/cut49.jpg?v=4" width="600" height="1067" alt="개발자 이세계 1화 (데모) 53"><img src="isekai/cut50.jpg?v=4" width="600" height="294" alt="개발자 이세계 1화 (데모) 54"><img src="isekai/cut51.jpg?v=4" width="600" height="1067" alt="개발자 이세계 1화 (데모) 55"><img src="isekai/cut52.jpg?v=4" width="600" height="1067" alt="개발자 이세계 1화 (데모) 56"><img src="isekai/cut53.jpg?v=4" width="600" height="1067" alt="개발자 이세계 1화 (데모) 57"><img src="isekai/cut54.jpg?v=4" width="600" height="1067" alt="개발자 이세계 1화 (데모) 58"><img src="isekai/cut55.jpg?v=4" width="600" height="294" alt="개발자 이세계 1화 (데모) 59"><img src="isekai/cut56.jpg?v=4" width="600" height="1067" alt="개발자 이세계 1화 (데모) 60" style="margin-bottom:220px"></div></body></html>
+.top{padding:14px 16px;font-size:14px;line-height:1.5}.top b{font-size:16px}.langs{margin-bottom:8px}</style><body><div class="wrap"><div class="top"><nav class="langs"><a href="../ja/scroll.html">日本語</a> · <a href="../en/scroll.html">English</a> · <a href="../de/scroll.html">Deutsch</a> · <b>한국어</b></nav><b>개발자 이세계 1화 (데모)</b><br>Hearbook 웹 만화 번역을 체험해 보는 데모예요. 이야기는 Hearbook이 만들었고, 그림은 AI로 만들었어요.<br><a href="paged.html">쪽 넘기기 데모 (우주 고양이 순찰대)</a></div><img src="isekai/cut01.jpg?v=5" width="600" height="1067" alt="개발자 이세계 1화 (데모) 1"><img src="isekai/cut02.jpg?v=5" width="600" height="1067" alt="개발자 이세계 1화 (데모) 2"><img src="isekai/cut03.jpg?v=5" width="600" height="1067" alt="개발자 이세계 1화 (데모) 3"><img src="isekai/cut03-1.jpg?v=5" width="600" height="1067" alt="개발자 이세계 1화 (데모) 4"><img src="isekai/cut03-2.jpg?v=5" width="600" height="476" alt="개발자 이세계 1화 (데모) 5"><img src="isekai/cut04.jpg?v=5" width="600" height="1067" alt="개발자 이세계 1화 (데모) 6"><img src="isekai/cut04-1.jpg?v=5" width="600" height="1067" alt="개발자 이세계 1화 (데모) 7"><img src="isekai/cut04-2.jpg?v=5" width="600" height="1067" alt="개발자 이세계 1화 (데모) 8"><img src="isekai/cut04-3.jpg?v=5" width="600" height="1067" alt="개발자 이세계 1화 (데모) 9"><img src="isekai/cut05.jpg?v=5" width="600" height="476" alt="개발자 이세계 1화 (데모) 10"><img src="isekai/cut06.jpg?v=5" width="600" height="1067" alt="개발자 이세계 1화 (데모) 11"><img src="isekai/cut07.jpg?v=5" width="600" height="294" alt="개발자 이세계 1화 (데모) 12" style="margin-bottom:220px"><img src="isekai/cut08.jpg?v=5" width="600" height="1067" alt="개발자 이세계 1화 (데모) 13"><img src="isekai/cut09.jpg?v=5" width="600" height="1067" alt="개발자 이세계 1화 (데모) 14"><img src="isekai/cut10.jpg?v=5" width="600" height="1067" alt="개발자 이세계 1화 (데모) 15"><img src="isekai/cut11.jpg?v=5" width="600" height="1067" alt="개발자 이세계 1화 (데모) 16"><img src="isekai/cut12.jpg?v=5" width="600" height="294" alt="개발자 이세계 1화 (데모) 17" style="margin-bottom:220px"><img src="isekai/cut13.jpg?v=5" width="600" height="1067" alt="개발자 이세계 1화 (데모) 18"><img src="isekai/cut14.jpg?v=5" width="600" height="1067" alt="개발자 이세계 1화 (데모) 19"><img src="isekai/cut15.jpg?v=5" width="600" height="1067" alt="개발자 이세계 1화 (데모) 20"><img src="isekai/cut16.jpg?v=5" width="600" height="1067" alt="개발자 이세계 1화 (데모) 21"><img src="isekai/cut17.jpg?v=5" width="600" height="1067" alt="개발자 이세계 1화 (데모) 22"><img src="isekai/cut18.jpg?v=5" width="600" height="1067" alt="개발자 이세계 1화 (데모) 23"><img src="isekai/cut19.jpg?v=5" width="600" height="1067" alt="개발자 이세계 1화 (데모) 24"><img src="isekai/cut20.jpg?v=5" width="600" height="1067" alt="개발자 이세계 1화 (데모) 25"><img src="isekai/cut21.jpg?v=5" width="600" height="1067" alt="개발자 이세계 1화 (데모) 26"><img src="isekai/cut22.jpg?v=5" width="600" height="294" alt="개발자 이세계 1화 (데모) 27"><img src="isekai/cut23.jpg?v=5" width="600" height="1067" alt="개발자 이세계 1화 (데모) 28"><img src="isekai/cut24.jpg?v=5" width="600" height="1067" alt="개발자 이세계 1화 (데모) 29"><img src="isekai/cut25.jpg?v=5" width="600" height="841" alt="개발자 이세계 1화 (데모) 30"><img src="isekai/cut26.jpg?v=5" width="600" height="1067" alt="개발자 이세계 1화 (데모) 31"><img src="isekai/cut27.jpg?v=5" width="600" height="1067" alt="개발자 이세계 1화 (데모) 32"><img src="isekai/cut28.jpg?v=5" width="600" height="1067" alt="개발자 이세계 1화 (데모) 33"><img src="isekai/cut29.jpg?v=5" width="600" height="1067" alt="개발자 이세계 1화 (데모) 34"><img src="isekai/cut30.jpg?v=5" width="600" height="1067" alt="개발자 이세계 1화 (데모) 35"><img src="isekai/cut31.jpg?v=5" width="600" height="1067" alt="개발자 이세계 1화 (데모) 36"><img src="isekai/cut32.jpg?v=5" width="600" height="1067" alt="개발자 이세계 1화 (데모) 37"><img src="isekai/cut33.jpg?v=5" width="600" height="1067" alt="개발자 이세계 1화 (데모) 38"><img src="isekai/cut34.jpg?v=5" width="600" height="1067" alt="개발자 이세계 1화 (데모) 39"><img src="isekai/cut35.jpg?v=5" width="600" height="1067" alt="개발자 이세계 1화 (데모) 40"><img src="isekai/cut36.jpg?v=5" width="600" height="476" alt="개발자 이세계 1화 (데모) 41"><img src="isekai/cut37.jpg?v=5" width="600" height="1067" alt="개발자 이세계 1화 (데모) 42"><img src="isekai/cut38.jpg?v=5" width="600" height="294" alt="개발자 이세계 1화 (데모) 43" style="margin-bottom:220px"><img src="isekai/cut39.jpg?v=5" width="600" height="1067" alt="개발자 이세계 1화 (데모) 44"><img src="isekai/cut40.jpg?v=5" width="600" height="294" alt="개발자 이세계 1화 (데모) 45"><img src="isekai/cut41.jpg?v=5" width="600" height="1067" alt="개발자 이세계 1화 (데모) 46"><img src="isekai/cut42.jpg?v=5" width="600" height="294" alt="개발자 이세계 1화 (데모) 47"><img src="isekai/cut43.jpg?v=5" width="600" height="1067" alt="개발자 이세계 1화 (데모) 48"><img src="isekai/cut44.jpg?v=5" width="600" height="1067" alt="개발자 이세계 1화 (데모) 49"><img src="isekai/cut45.jpg?v=5" width="600" height="1067" alt="개발자 이세계 1화 (데모) 50"><img src="isekai/cut46.jpg?v=5" width="600" height="294" alt="개발자 이세계 1화 (데모) 51"><img src="isekai/cut47.jpg?v=5" width="600" height="1067" alt="개발자 이세계 1화 (데모) 52" style="margin-bottom:220px"><img src="isekai/cut48.jpg?v=5" width="600" height="1067" alt="개발자 이세계 1화 (데모) 53"><img src="isekai/cut49.jpg?v=5" width="600" height="1067" alt="개발자 이세계 1화 (데모) 54"><img src="isekai/cut50.jpg?v=5" width="600" height="294" alt="개발자 이세계 1화 (데모) 55"><img src="isekai/cut51.jpg?v=5" width="600" height="1067" alt="개발자 이세계 1화 (데모) 56"><img src="isekai/cut52.jpg?v=5" width="600" height="1067" alt="개발자 이세계 1화 (데모) 57"><img src="isekai/cut53.jpg?v=5" width="600" height="1067" alt="개발자 이세계 1화 (데모) 58"><img src="isekai/cut54.jpg?v=5" width="600" height="1067" alt="개발자 이세계 1화 (데모) 59"><img src="isekai/cut55.jpg?v=5" width="600" height="294" alt="개발자 이세계 1화 (데모) 60"><img src="isekai/cut55-1.jpg?v=5" width="600" height="294" alt="개발자 이세계 1화 (데모) 61"><img src="isekai/cut56.jpg?v=5" width="600" height="1067" alt="개발자 이세계 1화 (데모) 62" style="margin-bottom:220px"></div></body></html>
